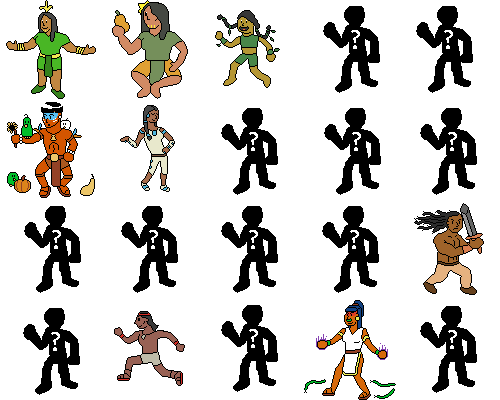
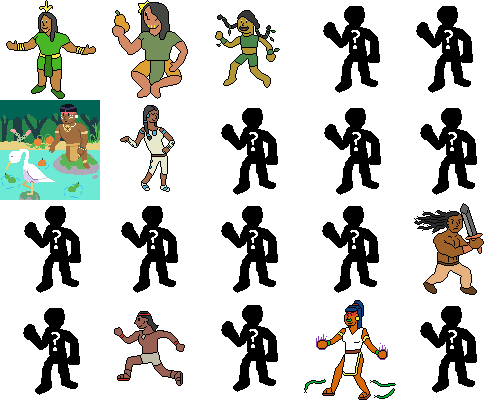
Some graphical changes

Changed region(s): [[0.0, 0.24, 0.21, 0.51]]

diff --git a/src/game.ts b/src/game.ts
@@ -83,22 +83,6 @@ export default class Game {
     view.init();
   }
 
-  getBackground(): Sprites {
-    if (this.world.time === Time.NIGHT) {
-      return Sprites.NIGHT;
-    }
-    switch (this.world.weather) {
-      case Weather.RAIN:
-        return Sprites.RAIN;
-      case Weather.WIND:
-        return Sprites.WIND;
-      case Weather.SNOW:
-        return Sprites.SNOW;
-      default:
-        return Sprites.SUN;
-    }
-  }
-
   // Progresses to the next event in the game
   async progress(): Promise<void> {
     const wait = () => new Promise((resolve) => setTimeout(resolve, 10));

diff --git a/src/views/events/time.ts b/src/views/events/time.ts
@@ -21,7 +21,7 @@ export default class TimeEvent extends EventView {
     this.game.world.time = time;
     const cave = this.game.world.cave ? ' in the world outside the cave' : '';
     this.setDetails(
-      isDay(time) ? this.game.getBackground() : Sprites.NIGHT,
+      isDay(time) ? Sprites.SUN : Sprites.NIGHT,
       isDay(time)
         ? `the sun rises over the horizon${cave} as night retreats to the west.`
         : `the sun comes to rest behind the hills${cave} as the moon rises into the night sky.`,

diff --git a/src/media/html5/graphics.ts b/src/media/html5/graphics.ts
@@ -66,10 +66,6 @@ export default class HTML5Graphics extends Graphics {
       return;
     }
     if (view.image) {
-      const background: number = game.getBackground();
-      if (background !== Sprites.NONE) {
-        this.drawSprite(background, 12, 3);
-      }
       const c: DrawCoords = this.assets.getSprite(view.image);
       this.drawSprite(view.image, (100 - c.width) / 2 + 12, (100 - c.height) / 2 + 3);
     }
